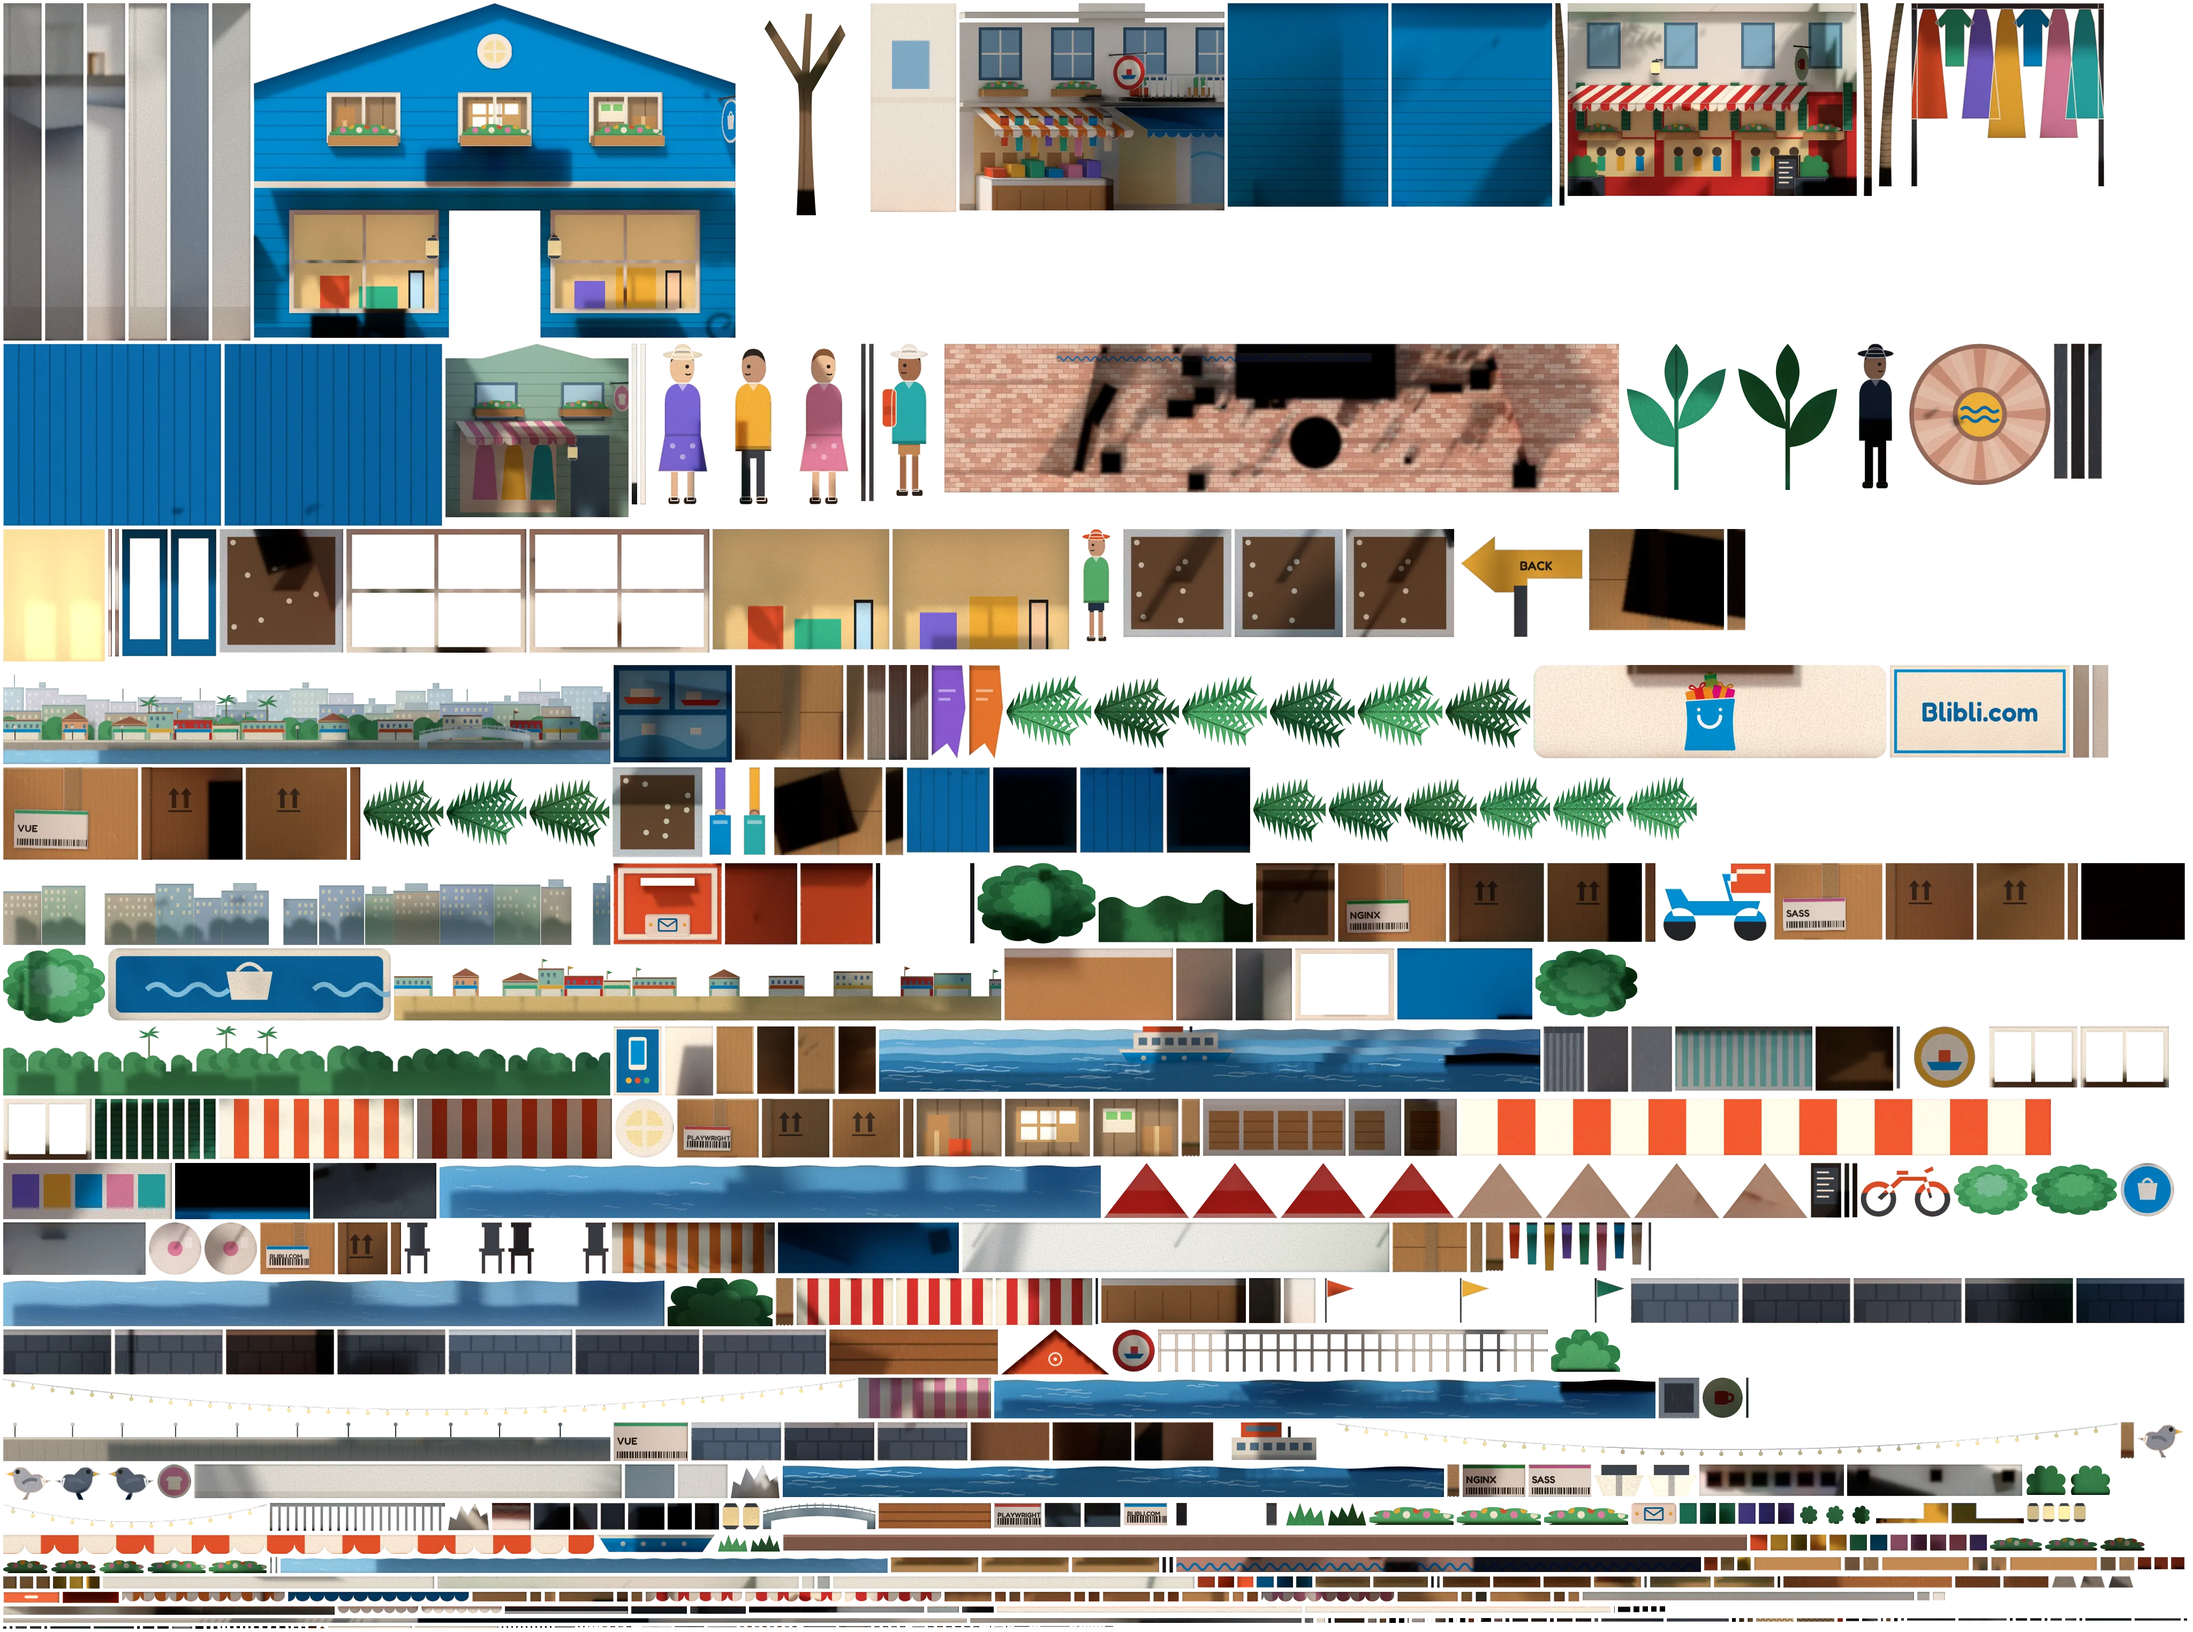
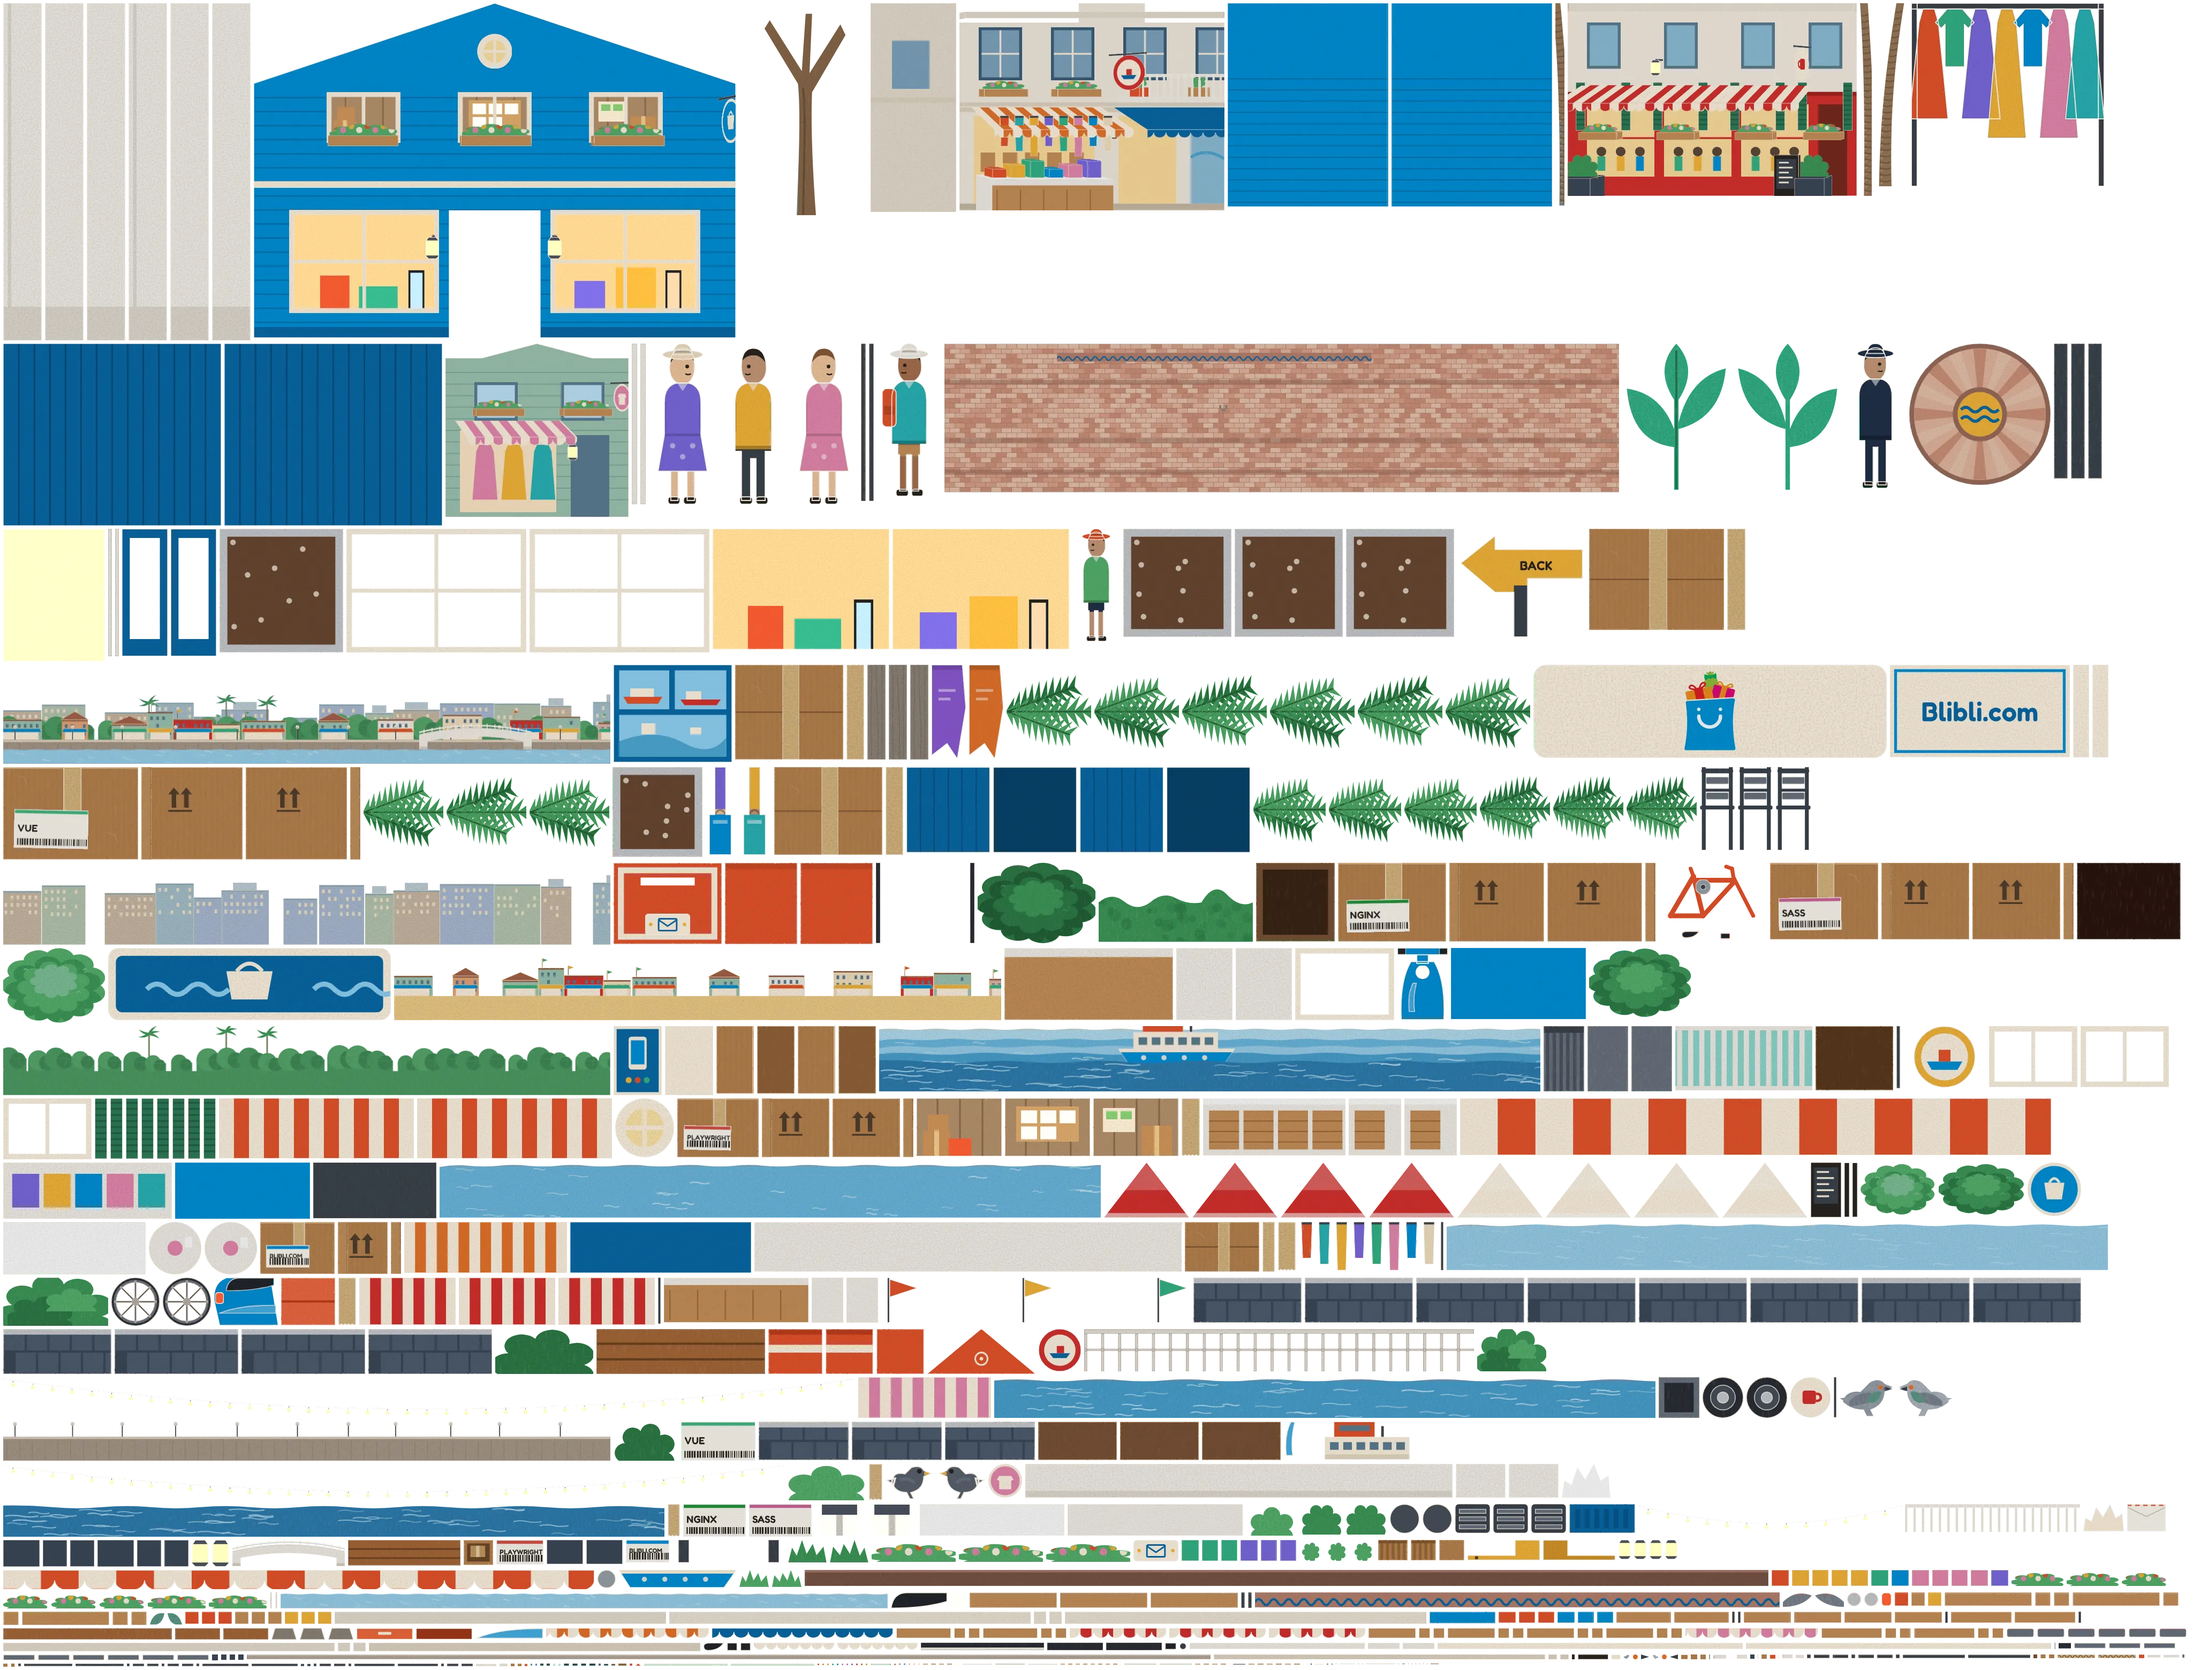
papercraft: interim 48-sample bake of the folded street objects
Claude-Session: https://claude.ai/code/session_01YPNotQphYVfjgC9Vgu6onV

diff --git a/game/docs/ART_BIBLE.md b/game/docs/ART_BIBLE.md
@@ -84,8 +84,8 @@ Split each space into the **main space**, where the courier walks and plays, and
 ### 2. Variants
 
 - One base design per object type, varied by size, proportion, repeated parts (storeys, tiers), pose and small add-ons. The facades share one frame and one set of relief parts (`fawning`, `fbalcony`, `fflowers`, `fblade`, `flamp`); shoppers are one figure varied by build (trousers, shorts, dress, child), hat, backpack and what they carry.
-- Freestanding objects in open space are folded volumes with cut pieces glued on, the way a paper fox is a tent-folded body with a cut head and tail, or a pine is two slotted cards. Detail is carried by glued pieces in lighter and darker tones of the object's own colour, never by outlines. The courier's scooter is a folded floorboard and skirt, a tent-folded cowl with the seat, stripe and tail lamp glued on, a leg shield carrying the handlebar, headlamp and a pale shine, a folded cargo box, and wheels with a pale rim and hub glued on. The bicycle is spoked ring wheels with a sugar-paper frame standing proud of them, saddle, grip and chainring glued on, and a folded kraft basket. Pigeons on the pavement are tent-folded with wing, neck sheen, eye and beak glued on. Bushes are a scalloped sheet with a darker and a paler cluster glued a little proud of it.
-- Flat cut cards are right only where the object is plane-shaped (a wheel, a sign, a flag), stands against a surface or structure (a bench under a window, birds on a roof ridge), or is flat on purpose (people, cut as two layers with the arm and bag proud of the figure). Their detail is carried by colour tones.
+- Freestanding objects in open space are folded volumes with cut pieces glued on, the way a paper fox is a tent-folded body with a cut head and tail, or a pine is two slotted cards. Detail is carried by glued pieces in lighter and darker tones of the object's own colour, never by outlines. The courier's scooter is a folded floorboard and skirt, a tent-folded cowl with the seat, stripe and tail lamp glued on, a leg shield carrying the handlebar, headlamp and a pale shine, a folded cargo box, and wheels with a pale rim and hub glued on. The bicycle is spoked ring wheels with a sugar-paper frame standing proud of them, saddle, grip and chainring glued on, and a folded kraft basket. Pigeons on the pavement are tent-folded with wing, neck sheen, eye and beak glued on. Bushes are a scalloped sheet with a darker and a paler cluster glued a little proud of it. Café chairs are a cut back with its legs folded into the seat, slats glued on paler.
+- Flat cut cards are right only where the object is plane-shaped (a wheel, a sign, a flag, a table top), stands against a surface or structure (a bench under a window, birds on a roof ridge), or is flat on purpose (people, cut as two layers with the arm and bag proud of the figure). Their detail is carried by colour tones.
 - Other freestanding objects carry the same structure: a palm is a ringed trunk and fans of broad cut fronds at different headings and droops; a shade tree is a forked trunk under scalloped leaf clusters layered at different depths and greens; a person is a figure plus an arm-and-bag layer standing proud of it.
 - Colours come from a narrow family per type. Phones use the three variant colours wherever they appear.
 - Group in small clusters (a bench with a bike, a family of shoppers), not on an even grid, except where the subject is regular (shelves, belts), and then break it a little.
